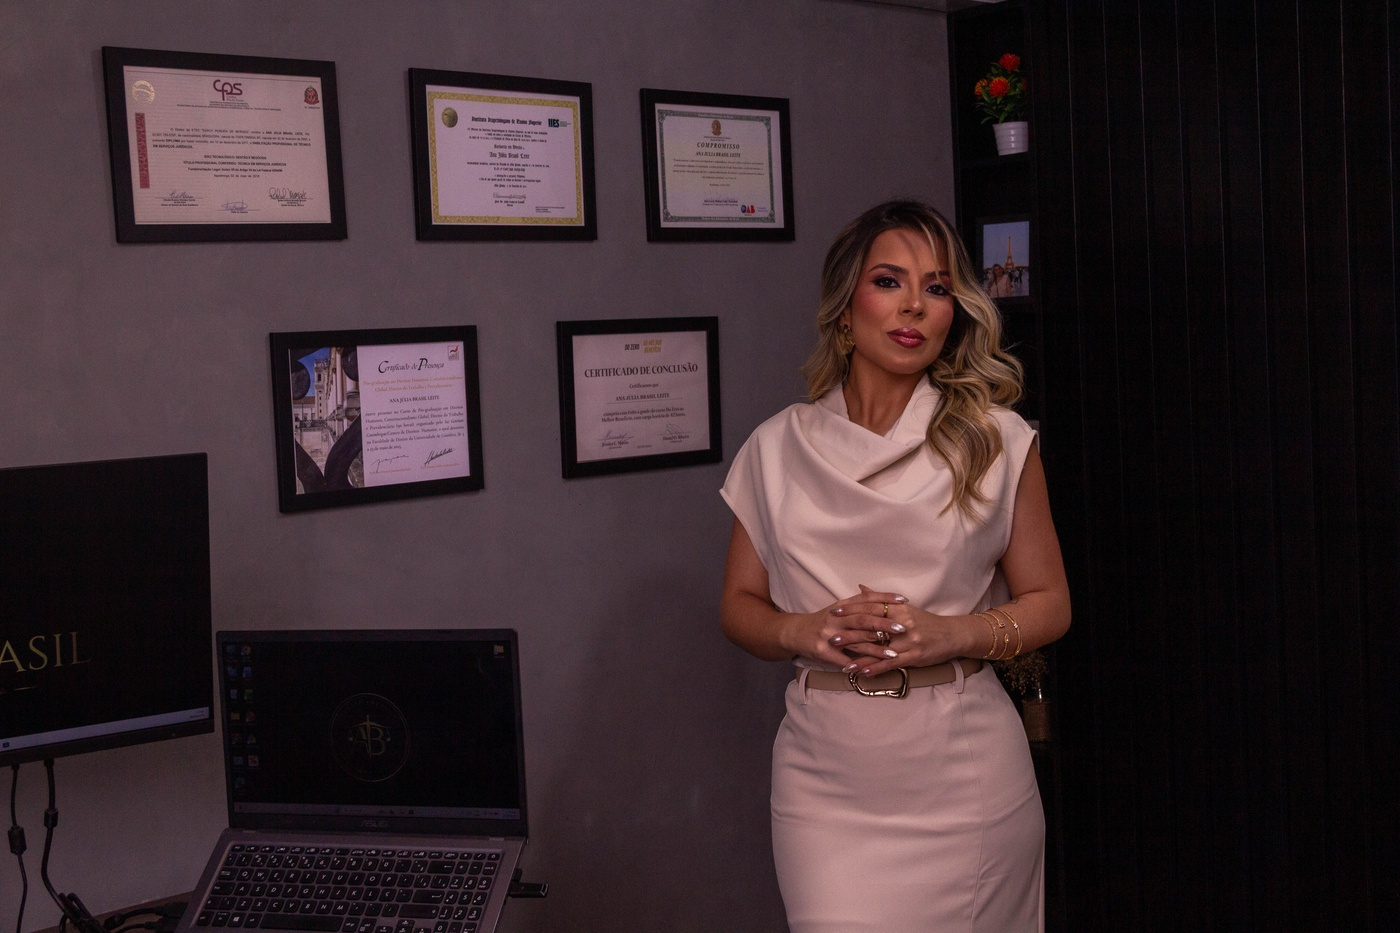
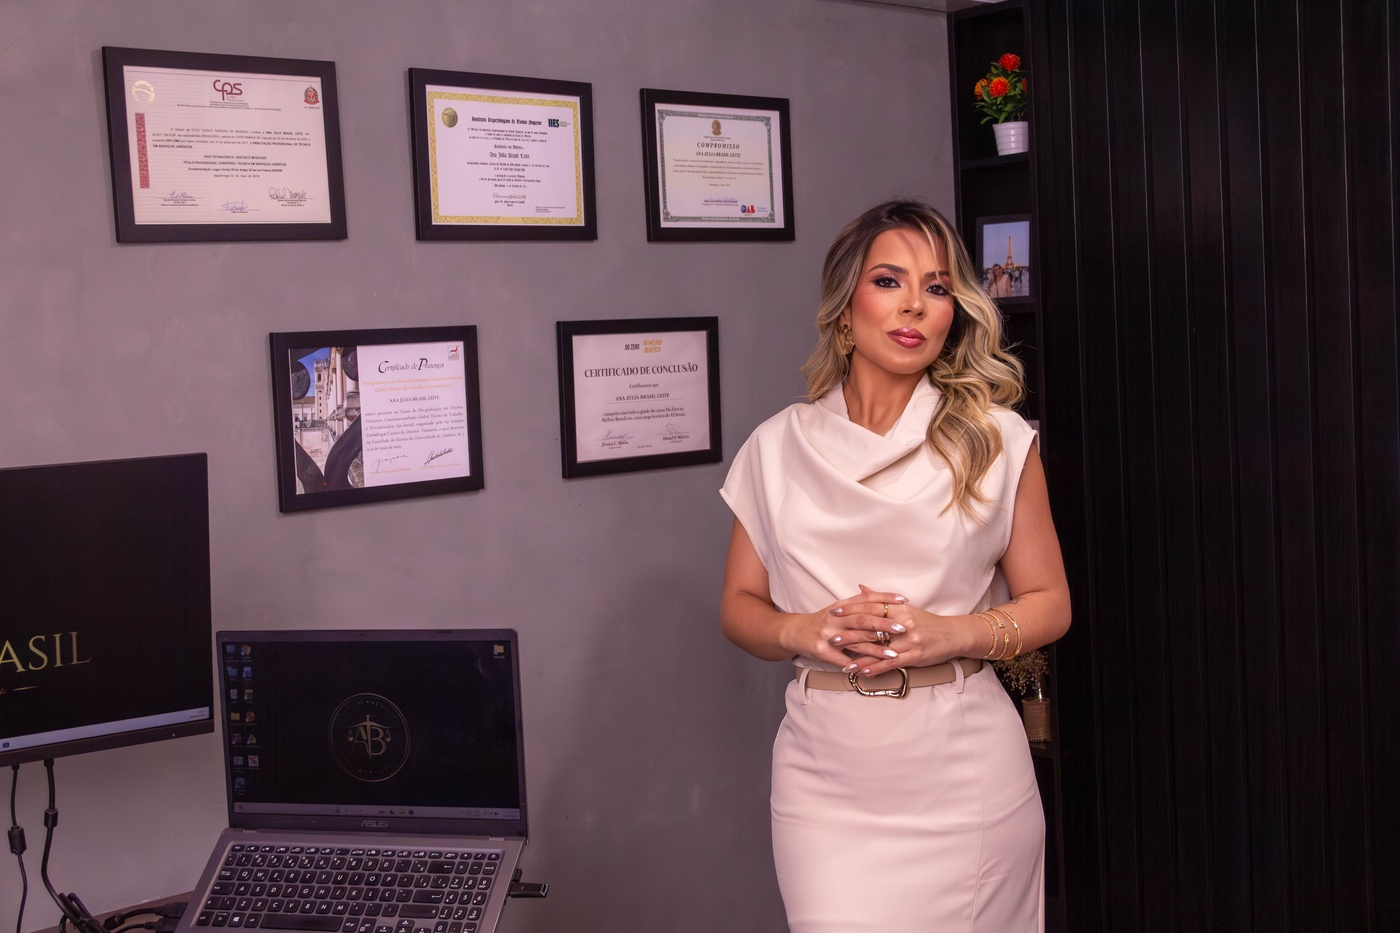
feat(design): substitui segunda foto pela versao reeditada _MG_9036.jpg com calibracao de enquadramento horizontal

diff --git a/index.html b/index.html
@@ -453,9 +453,9 @@
     }
     .about-portrait-placeholder img {
       width: 100%;
-      height: 410px;
+      height: 390px;
       object-fit: cover;
-      object-position: center 60%;
+      object-position: 65% 35%;
       display: block;
       border: 1px solid var(--color-border-light);
     }
@@ -809,7 +809,8 @@
       .btn-header { padding: 8px 14px; font-size: 11px; }
       .hero-watermark, .about-watermark, .dark-watermark { width: 280px; height: 280px; opacity: 0.03; }
       .hero-grid, .about-grid, .authority-grid, .contact-grid { grid-template-columns: 1fr; gap: 28px; }
-      .hero-portrait-frame img, .about-portrait-placeholder img { height: 340px; }
+      .hero-portrait-frame img { height: 340px; }
+      .about-portrait-placeholder img { height: 320px; object-position: 65% 30%; }
       .services-grid { grid-template-columns: 1fr 1fr; gap: 14px; }
       .pillars-grid { grid-template-columns: 1fr; gap: 12px; }
       .highlights-grid { grid-template-columns: 1fr 1fr; gap: 16px 0; }
@@ -835,7 +836,8 @@
       .hero-actions { flex-direction: column; width: 100%; }
       .btn-primary, .btn-secondary { width: 100%; text-align: center; }
       .hero-title { font-size: 26px; }
-      .hero-portrait-frame img, .about-portrait-placeholder img { height: 310px; }
+      .hero-portrait-frame img { height: 310px; }
+      .about-portrait-placeholder img { height: 280px; object-position: 65% 25%; }
       .top-bar-inner { flex-direction: column; text-align: center; }
     }
   </style>
@@ -1046,7 +1048,7 @@
     <div class="about-watermark"></div>
     <div class="container about-grid">
       <div class="about-portrait-placeholder">
-        <img src="assets/_MG_9028.jpg" alt="Dra. Ana Júlia Brasil - Formação em Coimbra">
+        <img src="assets/_MG_9036.jpg" alt="Dra. Ana Júlia Brasil - Formação em Coimbra">
         <div class="about-badge-tag">Ana Brasil Advocacia</div>
       </div>
 
